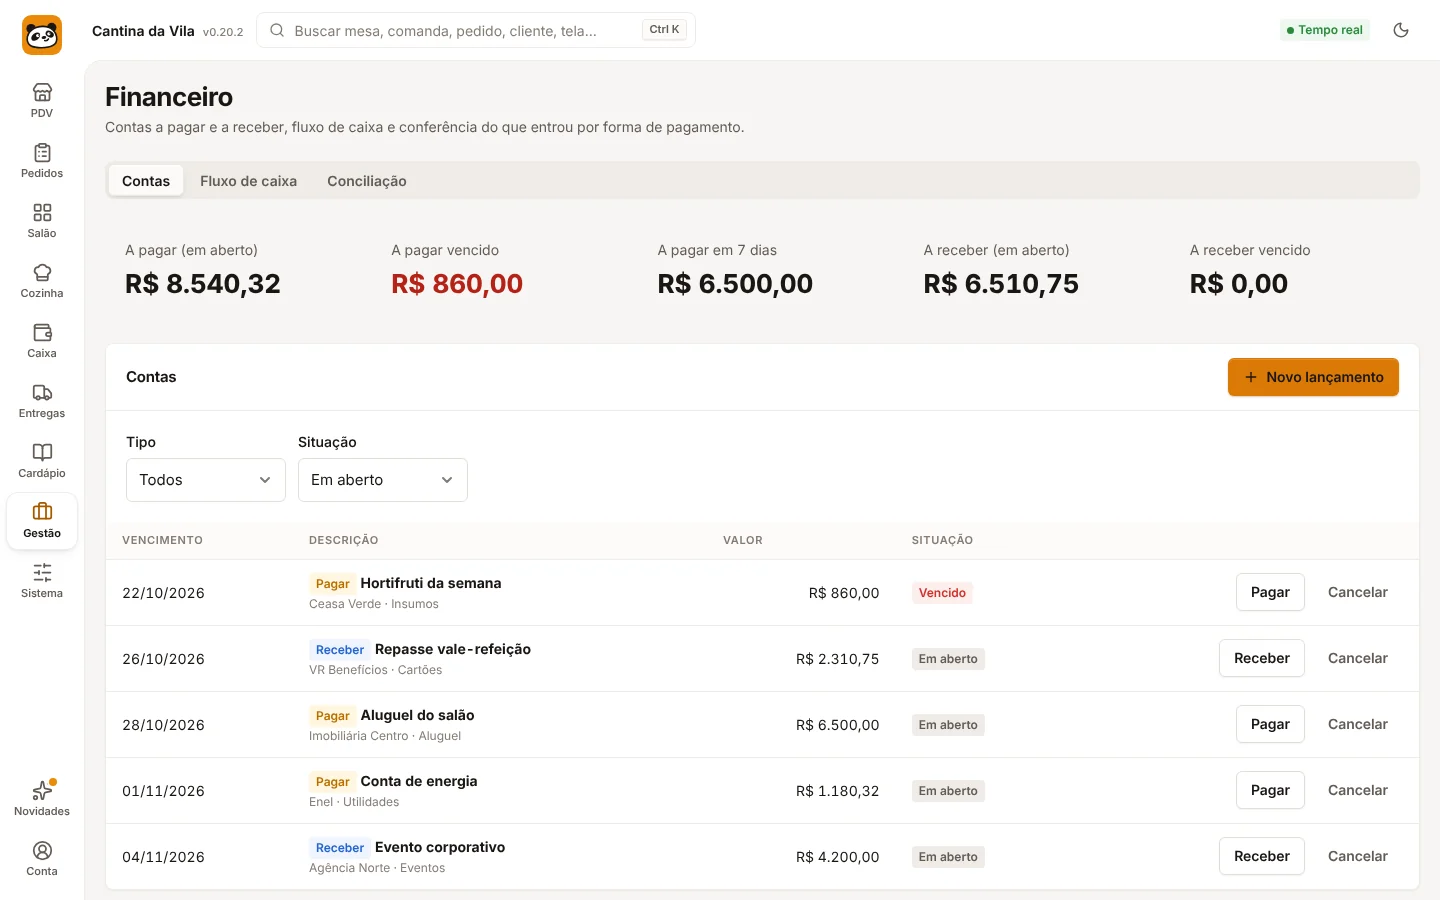
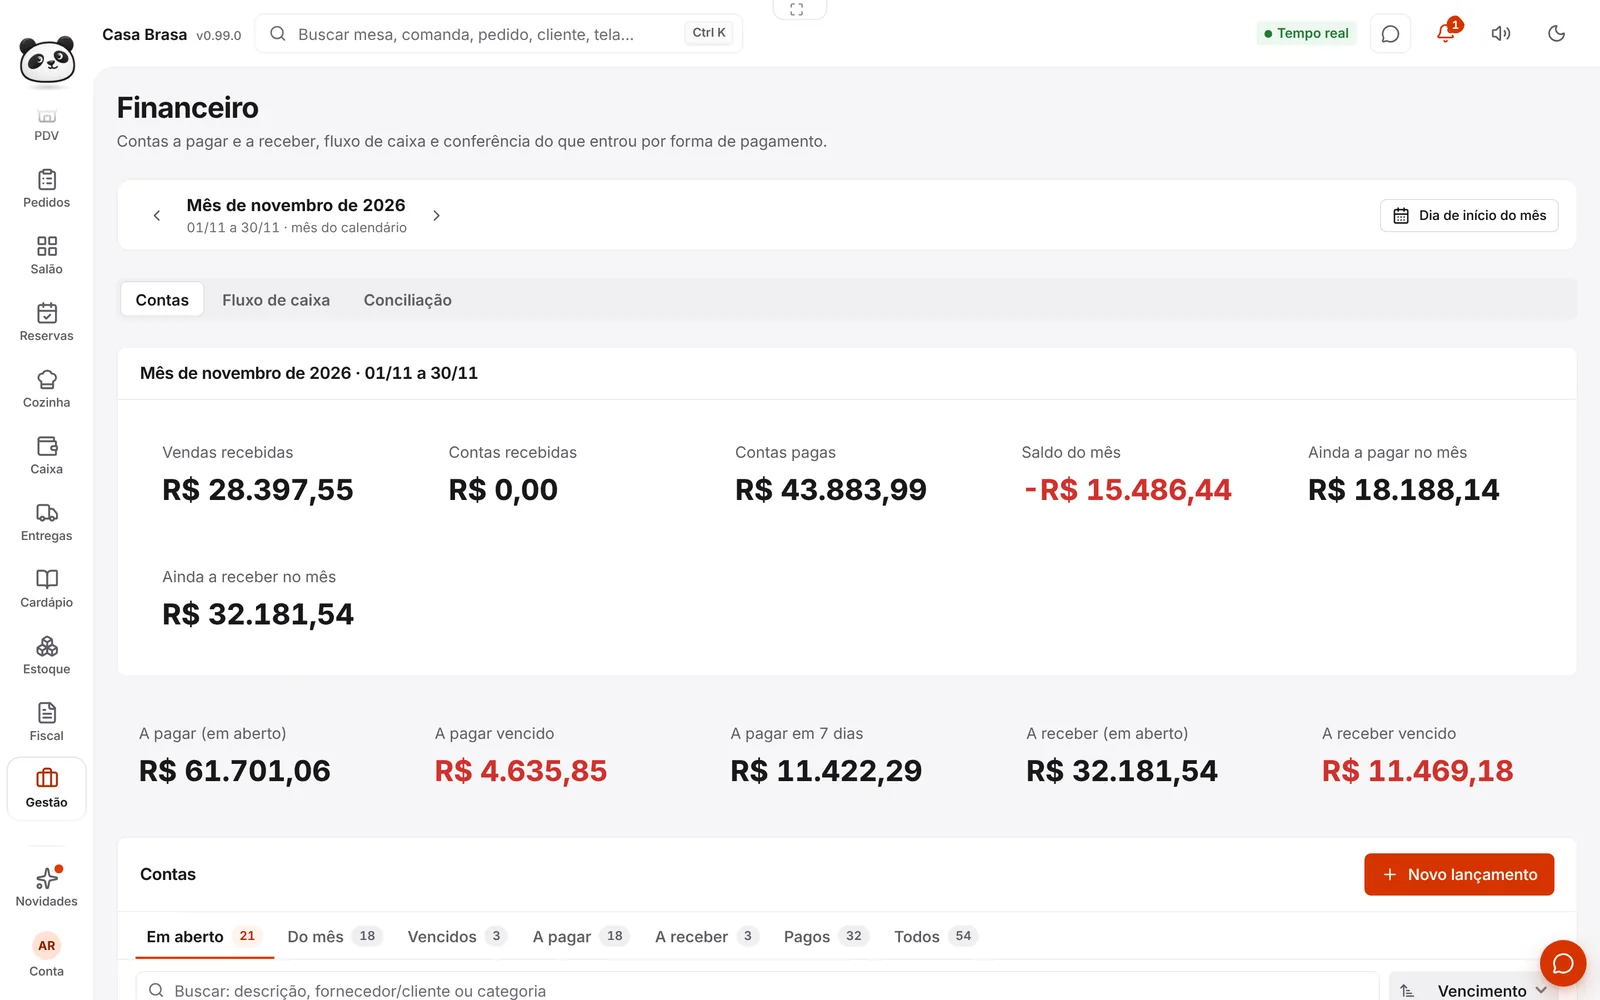
docs(readme): telas novas da versão 0.99 e lista de restaurantes sem texto encavalado
- README: 25 capturas novas do restaurante de demonstração (computador, celular, claro e
  escuro), com Pedidos, Clientes, Entregas no celular e o app de impressão na lista de recursos.
- Painel Super Admin no celular: endereço e cidade longos passavam por cima do número de
  pedidos; agora cortam com reticências.

Claude-Session: https://claude.ai/code/session_018u6cBgrarFHsBHBwMKbdHz

diff --git a/apps/web/src/platform/admin.css b/apps/web/src/platform/admin.css
@@ -1257,6 +1257,10 @@ details.adm-fieldset[open] > summary::before {
   font-size: 13px;
   color: var(--a-muted);
 }
+/* Sem isto o endereço longo passa por cima da coluna ao lado (o reticências não corta). */
+.adm-tlist__cell > * {
+  max-width: 100%;
+}
 .adm-tlist__cell--num {
   justify-items: end;
   text-align: right;

diff --git a/README.md b/README.md
@@ -10,7 +10,7 @@
 </p>
 
 <p align="center">
-  <img alt="versão" src="https://img.shields.io/badge/vers%C3%A3o-0.20-ea8a0b" />
+  <img alt="versão" src="https://img.shields.io/badge/vers%C3%A3o-0.99-ea8a0b" />
   <img alt="NestJS" src="https://img.shields.io/badge/NestJS-11-e0234e" />
   <img alt="React" src="https://img.shields.io/badge/React-19-149eca" />
   <img alt="PostgreSQL" src="https://img.shields.io/badge/PostgreSQL-16-336791" />
@@ -19,64 +19,71 @@
 
 <picture>
   <source media="(prefers-color-scheme: dark)" srcset="docs/assets/screens/pdv-escuro.webp" />
-  <img alt="PDV com os pedidos chegando em tempo real" src="docs/assets/screens/pdv-claro.webp" />
+  <img alt="PDV com o salão em cima e os pedidos andando por coluna embaixo" src="docs/assets/screens/pdv-claro.webp" />
 </picture>
 
 Cada restaurante tem o próprio endereço (`<restaurante>.comandou.com` ou um domínio próprio), o
 próprio banco de dados e usa PDV, salão, cozinha, caixa, cardápio online, entregas, estoque,
-financeiro, nota fiscal e avisos por WhatsApp. Funciona no computador e no celular (PWA), com tema
-claro e escuro. Os dados de um restaurante nunca aparecem para outro.
+financeiro, nota fiscal e avisos por WhatsApp. Funciona no computador, no tablet e no celular
+(instala como app), com tema claro e escuro, e continua vendendo sem internet: o que foi feito
+offline sobe sozinho quando a conexão volta. Os dados de um restaurante nunca aparecem para outro.
 
-> As telas abaixo são de um restaurante de exemplo (“Cantina da Vila”) rodando a versão 0.20.
+> As telas abaixo são do restaurante de demonstração **Casa Brasa**, que já vem instalado,
+> rodando a versão 0.99.
 
 ## Operação do dia a dia
 
 | Salão | Cozinha |
 | --- | --- |
-| ![Mapa de mesas livres, ocupadas e em pagamento](docs/assets/screens/salao-escuro.webp) | ![Fila da cozinha por setor: a fazer, preparando e pronto](docs/assets/screens/cozinha-claro.webp) |
-| Mesas livres, ocupadas e em pagamento, comandas, QR Code de cada mesa e garçom pelo celular. | Fila por setor (cozinha, bar) em tempo real, com avanço por item ou pelo pedido inteiro. |
-| **Caixa** | **Tema escuro** |
-| ![Caixa aberto com valores esperados por forma de pagamento](docs/assets/screens/caixa-escuro.webp) | ![Cozinha no tema escuro](docs/assets/screens/cozinha-escuro.webp) |
-| Abertura por terminal, suprimento, sangria e fechamento conferido por forma de pagamento. | Tema escuro em todas as telas, com o mesmo visual do claro. |
+| ![Mapa do salão com mesas livres, ocupadas e pedindo a conta](docs/assets/screens/salao-claro.webp) | ![Fila da cozinha: a fazer, preparando e pronto, com o tempo de cada pedido](docs/assets/screens/cozinha-claro.webp) |
+| Mapa por área (salão, varanda, mezanino), comandas, delivery e para levar, QR Code de cada mesa e garçom pelo celular. | Fila por setor em tempo real, com tempo de espera, aviso de cancelamento e avanço por item ou pelo pedido inteiro. |
+| **Caixa** | **Pedidos** |
+| ![Caixa aberto com a linha do tempo de vendas, suprimentos e sangrias](docs/assets/screens/caixa-escuro.webp) | ![Lista de pedidos do dia com status de operação e de pagamento](docs/assets/screens/pedidos-claro.webp) |
+| Abertura por terminal, suprimento, sangria, emissão de NFC-e e fechamento conferido por forma de pagamento. | Todos os pedidos com filtros salvos, busca por cliente, telefone, mesa ou item, e o que falta receber. |
 
 ## Cardápio online
 
-O cliente pede pelo celular ou pelo computador, cria conta, salva endereços e acompanha o pedido.
-A loja é configurada pelo próprio restaurante: capa, logo, banners, destaques e horário.
+O cliente pede pelo celular ou pelo computador, cria conta, salva endereços, junta pontos e
+acompanha o pedido. A loja é montada pelo próprio restaurante, com prévia ao vivo.
 
-| Loja no computador | Produtos e destaques |
+| Loja no computador | Tema escuro |
 | --- | --- |
-| ![Loja online com capa, banner de promoção e categorias](docs/assets/screens/loja-cliente-claro.webp) | ![Destaques da casa e mais pedidos no tema escuro](docs/assets/screens/loja-cliente-produtos-escuro.webp) |
-| **Configuração da loja (com prévia ao vivo)** | **Cardápio do restaurante** |
-| ![Configuração da loja online com prévia do celular](docs/assets/screens/loja-online-claro.webp) | ![Cadastro de categorias, produtos com foto e adicionais](docs/assets/screens/cardapio-claro.webp) |
+| ![Loja online com capa, banner da promoção, categorias e a sacola ao lado](docs/assets/screens/loja-cliente-claro.webp) | ![A mesma loja no tema escuro](docs/assets/screens/loja-cliente-escuro.webp) |
+| **Configuração da loja (com prévia do celular)** | **Cardápio do restaurante** |
+| ![Cores, letra e cantos da loja, com a prévia do celular ao lado](docs/assets/screens/loja-online-claro.webp) | ![Categorias e itens com foto, preço, situação e complementos](docs/assets/screens/cardapio-claro.webp) |
 
 ## No celular
 
 O app instala na tela inicial e parece nativo: menu inferior grande, folhas que sobem de baixo e
-cada função abre na sua tela (garçom no Salão, cozinha na Cozinha, entregador nas entregas).
+cada função abre na sua tela (garçom no Salão, cozinha na Cozinha, entregador nas Entregas).
 
 <p align="center">
-  <img src="docs/assets/screens/celular-pdv-claro.webp" width="19%" alt="PDV no celular" />
-  <img src="docs/assets/screens/celular-salao-escuro.webp" width="19%" alt="Salão no celular, tema escuro" />
-  <img src="docs/assets/screens/celular-cozinha-claro.webp" width="19%" alt="Cozinha no celular" />
-  <img src="docs/assets/screens/celular-loja-claro.webp" width="19%" alt="Loja online no celular" />
-  <img src="docs/assets/screens/celular-loja-escuro.webp" width="19%" alt="Loja online no celular, tema escuro" />
+  <img src="docs/assets/screens/celular-pdv-claro.webp" width="16%" alt="PDV no celular" />
+  <img src="docs/assets/screens/celular-salao-escuro.webp" width="16%" alt="Salão no celular, tema escuro" />
+  <img src="docs/assets/screens/celular-cozinha-claro.webp" width="16%" alt="Cozinha no celular" />
+  <img src="docs/assets/screens/celular-entregas-claro.webp" width="16%" alt="Entregas no celular" />
+  <img src="docs/assets/screens/celular-loja-claro.webp" width="16%" alt="Loja online no celular" />
+  <img src="docs/assets/screens/celular-loja-escuro.webp" width="16%" alt="Loja online no celular, tema escuro" />
 </p>
 
 ## Gestão
 
 | Relatórios | Financeiro |
 | --- | --- |
-| ![Faturamento, recebimentos por forma e mais vendidos](docs/assets/screens/relatorios-claro.webp) | ![Contas a pagar e a receber](docs/assets/screens/financeiro-claro.webp) |
+| ![Relatórios por assunto: vendas, perdas, cardápio, equipe e delivery](docs/assets/screens/relatorios-claro.webp) | ![Resumo do mês, contas a pagar e a receber](docs/assets/screens/financeiro-claro.webp) |
 | **Estoque** | **Entregas** |
-| ![Insumos com saldo, mínimo e custo médio](docs/assets/screens/estoque-escuro.webp) | ![Despacho de pedidos e entregadores na rua](docs/assets/screens/entregas-claro.webp) |
-| **Equipe** | **Entrada** |
-| ![Equipe com papéis e permissões](docs/assets/screens/equipe-claro.webp) | ![Tela de login do restaurante](docs/assets/screens/login-claro.webp) |
+| ![Insumos com saldo, mínimo, custo médio e quantos dias ainda duram](docs/assets/screens/estoque-escuro.webp) | ![Pedidos prontos para sair e entregadores na rua, no mapa](docs/assets/screens/entregas-claro.webp) |
+| **Clientes** | **Equipe** |
+| ![Clientes do cardápio online com pedidos, total gasto e último pedido](docs/assets/screens/clientes-claro.webp) | ![Equipe com o papel de cada pessoa](docs/assets/screens/equipe-claro.webp) |
+
+<p align="center">
+  <img src="docs/assets/screens/login-claro.webp" width="60%" alt="Tela de entrada do restaurante" />
+</p>
 
 ## Painel Super Admin
 
 Onde o dono da plataforma cria restaurantes (cada um com banco próprio), acompanha uso, planos,
-servidor, backups e auditoria. Entrada com senha e código do aplicativo autenticador.
+cobrança, servidor, backups e auditoria. Entrada com senha e código do aplicativo autenticador.
 
 <p align="center">
   <img src="docs/assets/screens/admin-restaurantes.webp" width="72%" alt="Lista de restaurantes no painel Super Admin" />
@@ -88,12 +95,13 @@ servidor, backups e auditoria. Entrada com senha e código do aplicativo autenti
 | Área | Recursos |
 | --- | --- |
 | **Venda** | PDV com atalhos de teclado, adicionais e variações, pedidos de balcão, mesa, retirada e delivery, descontos com limite por papel, busca global (Ctrl+K) |
-| **Salão** | Mapa de mesas e comandas, QR Code por mesa, garçom no celular (escaneia a mesa), pedir a conta, transferência, divisão sem perder centavo |
+| **Salão** | Mapa de mesas e comandas, reservas, QR Code por mesa, garçom no celular (escaneia a mesa), pedir a conta, transferência, divisão sem perder centavo |
 | **Cozinha** | Fila por setor de produção (KDS) em tempo real, avisos de atraso, avanço por item ou pedido |
 | **Caixa** | Abertura por terminal, pagamentos com troco, estornos, sangria e suprimento, fechamento conferido |
 | **Cardápio online** | Loja própria com capa, banners e destaques, contas de cliente com endereços e favoritos, acompanhamento do pedido, aceite manual ou automático |
 | **Entregas** | Áreas desenhadas no mapa (bairro ou raio) com taxa e pedido mínimo, painel do entregador com login ou link, rastreio para o cliente |
-| **Retaguarda** | Equipe e papéis, estoque com ficha técnica e custo médio, impressão local (agente ESC/POS), contas a pagar e receber, conciliação, relatórios |
+| **Retaguarda** | Equipe e papéis, estoque com ficha técnica e custo médio, contas a pagar e receber, conciliação, relatórios com exportação para Excel |
+| **Impressão** | App Comandou Impressão (Windows, Mac e Linux) para impressoras térmicas por rede/Wi-Fi, USB, serial e Bluetooth, com modelos de comanda editáveis |
 | **Integrações** | NFC-e pela Focus NFe, avisos ao cliente pelo WhatsApp (QR Code ou API oficial), filas com novas tentativas |
 | **Plataforma** | Painel Super Admin com dois fatores, banco de dados próprio por restaurante, planos e limites, domínio próprio, atualização pelo painel, backups cifrados no Backblaze B2 com teste de restauração |
 
